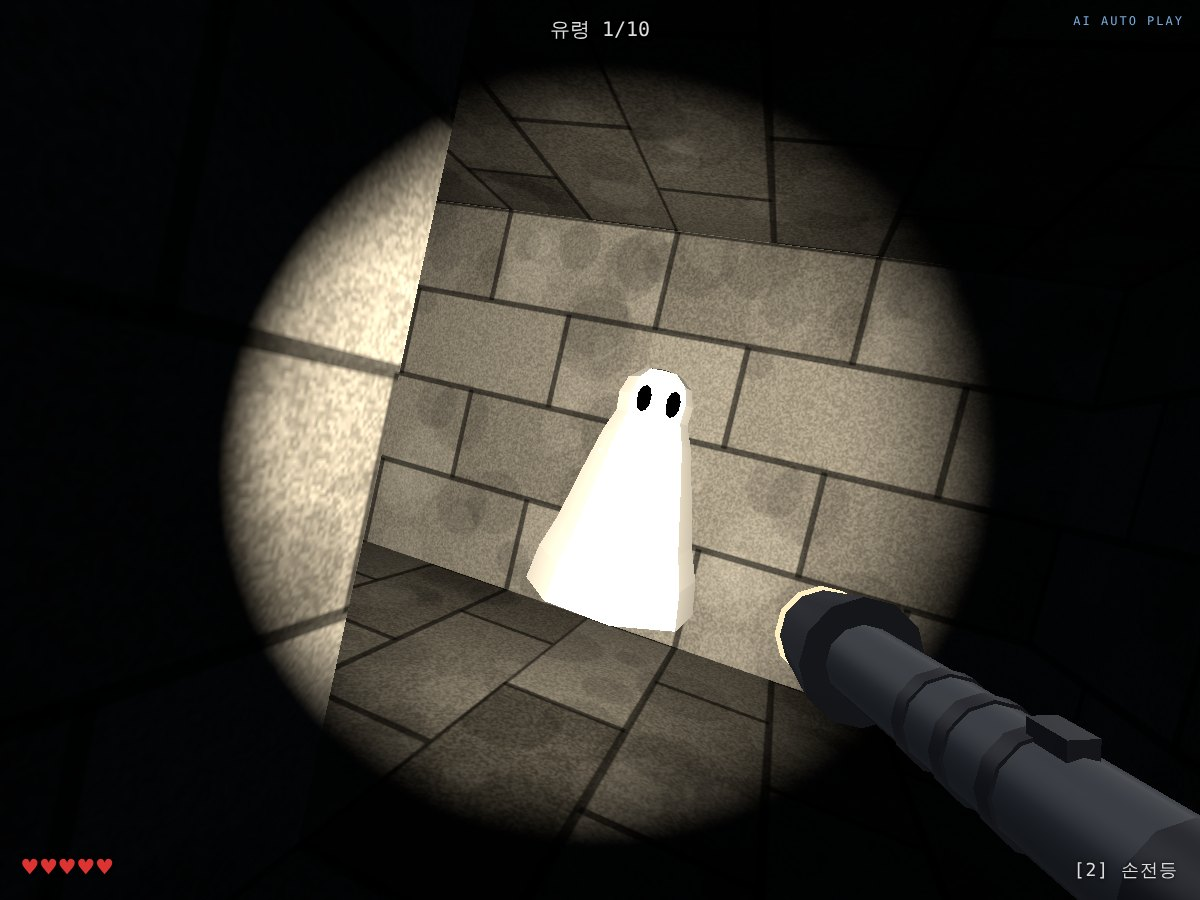
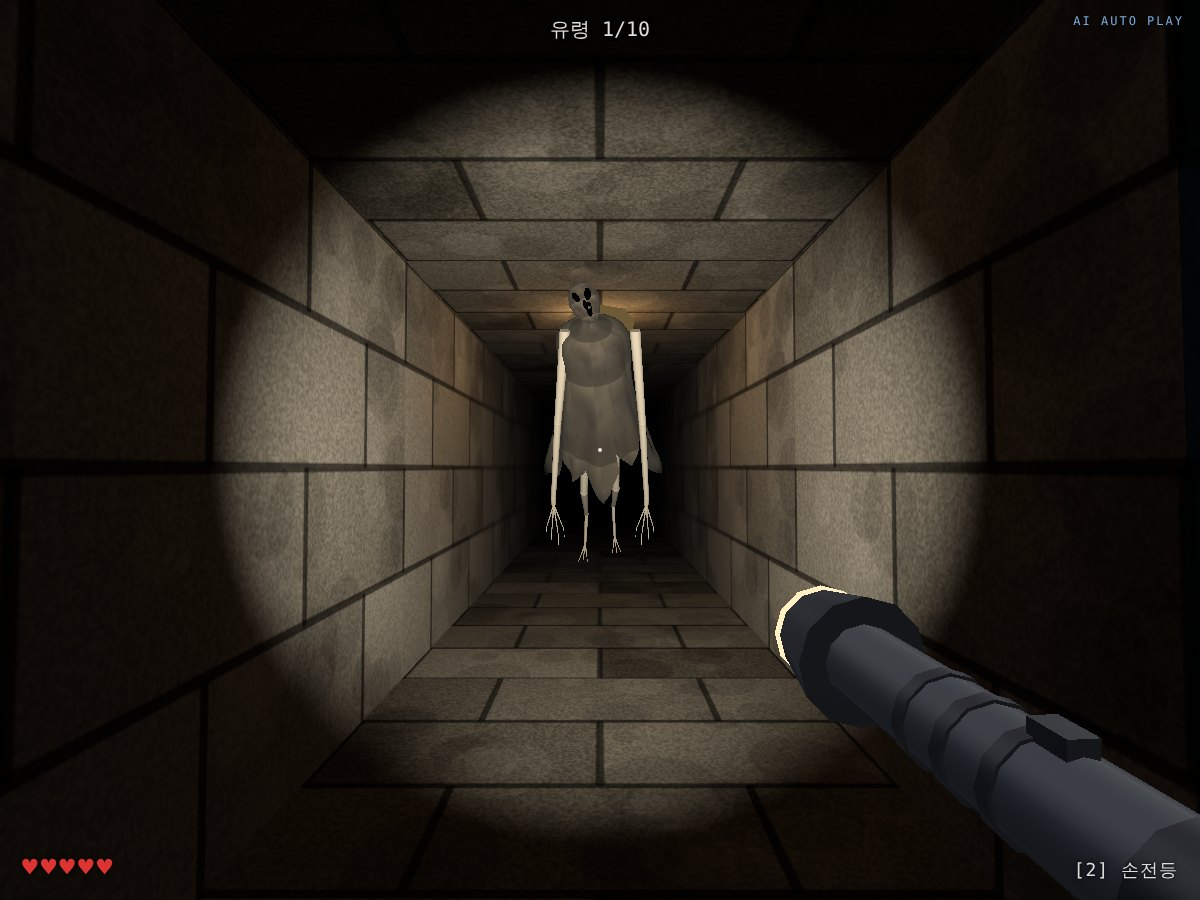
유령 재디자인: 키 크고 앙상한 체형, 굽은 등과 혹, 긴 다리와 도약 달리기, 작은 머리·텅 빈 눈·찢긴 입, 긴 팔, 때 묻은 찢긴 천. 판정 몸통 3발·머리 2발
Claude-Session: https://claude.ai/code/session_01BNALm6jadQDQcYbVgMXER4

Changed region(s): [[0.1542, 0.0933, 0.8325, 0.9333], [0.37, 0.8711, 0.4008, 0.9022]]

diff --git a/shoot-to-survive/js/ghost.js b/shoot-to-survive/js/ghost.js
@@ -1,102 +1,193 @@
 import * as THREE from 'three';
-import { toCreasedNormals } from 'three/addons/utils/BufferGeometryUtils.js';
+import { toCreasedNormals, mergeGeometries } from 'three/addons/utils/BufferGeometryUtils.js';
 import { hasLOS, pushOut, tileOf, centerOf, openNeighbors, findPath } from './maze.js';
 
-export const GHOST_H = 1.8;          // 모델 높이
-export const GHOST_FLOAT = 0.25;     // 바닥에서 띄운 높이
-export const HEAD_FROM = GHOST_H * 0.75; // 상단 25% = 머리
+export const GHOST_H = 2.6;          // 모델 높이 (등을 굽힌 상태, 펴면 훨씬 큼)
+export const GHOST_FLOAT = 0;        // 이제 다리로 선다 (도약 때만 떠오름)
+export const HEAD_FROM = 2.3;        // 머리 판정은 머리 메시로 한다
+export const BODY_DMG = 34, HEAD_DMG = 50; // 몸통 3발, 머리 2발에 사망 (체력 100)
 const RADIUS = 0.35;
+const V3 = THREE.Vector3;
 
 // 고화질 유령의 밑단 천 일렁임 시간(초) — main에서 매 프레임 갱신
 export const ghostTime = { value: 0 };
 
-// ── 낮음: 기존 로우폴리 유령 ──
-function buildLow() {
-  const pts = [[0, 1.8], [0.13, 1.78], [0.23, 1.7], [0.27, 1.58], [0.26, 1.45], [0.32, 1.3], [0.4, 1.0], [0.5, 0.6], [0.58, 0.25], [0.62, 0.0]]
-    .map(([r, y]) => new THREE.Vector2(r, y));
-  const geo = new THREE.LatheGeometry(pts, 8);
-  const pos = geo.attributes.position; // 옷자락 물결
-  for (let i = 0; i < pos.count; i++) {
-    const y = pos.getY(i);
-    if (y < 0.3) {
-      const a = Math.atan2(pos.getZ(i), pos.getX(i));
-      pos.setY(i, y + Math.sin(a * 4) * 0.12 + 0.12);
+// ── 공통 부품 ────────────────────────────────────────────
+function limb(parts, a, b, ra, rb, seg) { // a→b 로 가늘어지는 원기둥
+  const d = new V3().subVectors(b, a), len = d.length();
+  const g = new THREE.CylinderGeometry(rb, ra, len, seg, 1, false);
+  g.applyQuaternion(new THREE.Quaternion().setFromUnitVectors(new V3(0, 1, 0), d.normalize()));
+  g.translate((a.x + b.x) / 2, (a.y + b.y) / 2, (a.z + b.z) / 2);
+  parts.push(g);
+}
+function joint(parts, p, r, seg) { const g = new THREE.SphereGeometry(r, seg, Math.max(3, seg - 2)); g.translate(p.x, p.y, p.z); parts.push(g); }
+
+// 천 밖으로 늘어진 창백하고 가늘고 긴 팔 + 길게 휜 손가락 (양팔을 하나로 합침)
+function buildArms(seg, fine) {
+  const parts = [];
+  for (const s of [-1, 1]) {
+    const sh = new V3(s * 0.26, 0, 0), el = new V3(s * 0.34, -0.75, 0.12), wr = new V3(s * 0.40, -1.45, 0.22); // 어깨(0,0,0) 기준, 지나치게 긴 팔
+    limb(parts, sh, el, 0.042, 0.03, seg); limb(parts, el, wr, 0.03, 0.022, seg);
+    joint(parts, el, 0.032, seg); joint(parts, wr, 0.024, seg);
+    const palm = new V3(wr.x, wr.y - 0.07, wr.z + 0.01); limb(parts, wr, palm, 0.024, 0.02, seg);
+    for (const [dx, dz, len] of [[-0.3, 0.1, 0.27], [-0.1, 0.2, 0.32], [0.1, 0.2, 0.3], [0.3, 0.1, 0.24]]) {
+      const dir = new V3(dx * s, -1, dz).normalize(), p1 = new V3().copy(palm).addScaledVector(dir, len);
+      limb(parts, palm, p1, 0.0085, 0.0045, fine ? 6 : 4);
+      if (fine) limb(parts, p1, new V3(p1.x + dx * s * 0.03, p1.y - 0.05, p1.z + 0.06), 0.0045, 0.0018, 5); // 끝이 안쪽으로 휜 손톱 쪽
     }
   }
+  return mergeGeometries(parts);
+}
+
+// 지나치게 긴 다리: 허벅지 → 앞으로 꺾인 무릎 → 뒤로 빠진 발목 → 길게 뻗은 발가락 (엉덩이가 원점, 서 있으면 발끝이 y=-1.5)
+function buildLeg(s, seg, fine) {
+  const parts = [], hip = new V3(0, 0, 0), knee = new V3(s * 0.03, -0.74, 0.14), ank = new V3(s * 0.02, -1.38, -0.07), toe = new V3(s * 0.03, -1.47, 0.24);
+  limb(parts, hip, knee, 0.05, 0.034, seg); limb(parts, knee, ank, 0.034, 0.021, seg);
+  joint(parts, knee, 0.037, seg); joint(parts, ank, 0.024, seg);
+  limb(parts, ank, toe, 0.02, 0.012, seg);
+  for (const dx of [-0.045, 0, 0.045]) limb(parts, toe, new V3(toe.x + dx + s * 0.02, -1.5, 0.42), 0.011, 0.003, fine ? 5 : 4);
+  return mergeGeometries(parts);
+}
+
+// 작은 머리 위에 얹는 얼굴: 크고 텅 빈 눈구멍(바깥쪽이 처짐), 세로로 길게 벌어진 비대칭 입, 눈 속의 희미한 푸른 점
+const HEAD = { rx: 0.11, ry: 0.15, rz: 0.12 };
+function buildFace(segs) {
+  const surf = (x, y) => HEAD.rz * Math.sqrt(Math.max(0.05, 1 - (x / HEAD.rx) ** 2 - (y / HEAD.ry) ** 2));
+  const place = (g, x, y, tilt = 0, sc = [1, 1]) => { // 얼굴 곡면에 붙이기
+    const z = surf(x, y), n = new V3(x / HEAD.rx ** 2, y / HEAD.ry ** 2, z / HEAD.rz ** 2).normalize();
+    g.scale(sc[0], sc[1], 1); g.rotateZ(tilt);
+    g.applyQuaternion(new THREE.Quaternion().setFromUnitVectors(new V3(0, 0, 1), n)); g.translate(x, y, z + 0.0025); return g;
+  };
+  const ell = (rx, ry, n) => new THREE.ShapeGeometry(new THREE.Shape(Array.from({ length: n }, (_, i) => { const a = i / n * Math.PI * 2; return new THREE.Vector2(Math.cos(a) * rx, Math.sin(a) * ry); })), 1);
+  const eyes = [], glow = [];
+  for (const s of [-1, 1]) {
+    const x = s * 0.043, y = 0.03 - (s > 0 ? 0.008 : 0), k = s > 0 ? 1.12 : 1.0; // 오른쪽 눈이 조금 더 크고 낮음 (비대칭)
+    eyes.push(place(ell(0.022, 0.042, segs), x, y, s * -0.38, [k, k]));
+    const dot = new THREE.CircleGeometry(0.0055, 8); glow.push(place(dot, x, y - 0.014 * k, 0));
+  }
+  // 입: 반지름이 들쭉날쭉한 긴 타원 (한쪽으로 쳐짐)
+  const m = []; const N = segs + 4;
+  for (let i = 0; i < N; i++) { const a = i / N * Math.PI * 2, j = 1 + 0.16 * Math.sin(3 * a + 1) + 0.1 * Math.sin(5 * a + 0.4); m.push(new THREE.Vector2(Math.cos(a) * 0.024 * j + 0.004, Math.sin(a) * 0.062 * j)); }
+  const mouth = place(new THREE.ShapeGeometry(new THREE.Shape(m), 1), 0.006, -0.068, 0.08);
+  return { face: mergeGeometries([...eyes, mouth]), glow: mergeGeometries(glow) };
+}
+
+// ── 낮음: 로우폴리 유령 ──
+function buildLow() {
+  const SK = ([r, y]) => new THREE.Vector2(r * 0.8, y * 0.9 - 0.55); // 앙상하게 가늘고 짧게 (엉덩이 기준 좌표: 목 위 1.16, 밑단 -0.55)
+  const pts = [[0.055, 1.88], [0.06, 1.8], [0.14, 1.7], [0.27, 1.62], [0.3, 1.5], [0.31, 1.3], [0.36, 1.0], [0.44, 0.6], [0.52, 0.25], [0.58, 0.0]].map(SK);
+  const geo = new THREE.LatheGeometry(pts, 10), pos = geo.attributes.position, np = pts.length;
+  for (let i = 0; i < pos.count; i++) { // 찢긴 밑단: 톱니처럼 들쭉날쭉
+    const j = i % np, seg = Math.floor(i / np), y = pos.getY(i);
+    if (j === np - 1) pos.setY(i, y + (seg % 2 ? 0.3 : 0.03) + (seg % 3 === 0 ? 0.1 : 0));
+    else if (j === np - 2) pos.setY(i, y + (seg % 2 ? 0.1 : 0));
+  }
+  for (let i = 0; i < pos.count; i++) { // 등의 혹: 어깨 뒤쪽을 크게 부풀림
+    const x = pos.getX(i), y = pos.getY(i), z = pos.getZ(i);
+    if (z < 0) pos.setZ(i, z * (1 + 0.75 * Math.exp(-(((y - 0.7) / 0.3) ** 2))));
+  }
   geo.computeVertexNormals();
-  const mat = new THREE.MeshLambertMaterial({ color: 0xeeeeee, emissive: 0x161616, flatShading: true, side: THREE.DoubleSide });
-  return { geo, mat, eyeGeo: new THREE.SphereGeometry(0.06, 6, 5), eyeMat: new THREE.MeshBasicMaterial({ color: 0x000000 }), eyeScale: [0.8, 1.5, 0.5], eyeZ: 0.245 };
+  const cloth = new THREE.MeshLambertMaterial({ color: 0x7a766f, emissive: 0x0b0b0c, flatShading: true, side: THREE.DoubleSide });
+  const head = new THREE.SphereGeometry(1, 8, 6); head.scale(HEAD.rx, HEAD.ry, HEAD.rz);
+  const f = buildFace(6);
+  return {
+    body: { geo, mat: cloth }, head: { geo: head, mat: cloth },
+    arms: { geo: buildArms(4, false), mat: new THREE.MeshLambertMaterial({ color: 0x8d8a84, flatShading: true }) },
+    legs: { L: buildLeg(-1, 5, false), R: buildLeg(1, 5, false), mat: new THREE.MeshLambertMaterial({ color: 0x8d8a84, flatShading: true }) },
+    face: { geo: f.face, mat: new THREE.MeshBasicMaterial({ color: 0x000000 }) }, glow: { geo: f.glow, mat: new THREE.MeshBasicMaterial({ color: 0x9cc0ff }) },
+  };
 }
 
 // ── 높음: 하이폴리 천 유령 ──
 const sstep = (a, b, x) => { const t = Math.min(1, Math.max(0, (x - a) / (b - a))); return t * t * (3 - 2 * t); };
-function fabricMaps() { // 낡고 흐린 리넨: 옅은 얼룩 + 약한 직조 무늬 (색 맵 + 범프 맵)
+function fabricMaps() { // 낡고 더러운 리넨: 때 · 얼룩 · 번진 자국 + 약한 직조 무늬 (색 맵 + 범프 맵)
   const mk = (draw) => { const c = document.createElement('canvas'); c.width = c.height = 512; draw(c.getContext('2d')); return c; };
   const rnd = (() => { let s = 11; return () => (s = (s * 16807) % 2147483647) / 2147483647; })();
   const weave = (x, a) => { x.globalAlpha = a; for (let i = 0; i < 512; i += 2) { x.fillStyle = (i & 2) ? '#fff' : '#6e6a62'; x.fillRect(0, i, 512, 1); x.fillRect(i, 0, 1, 512); } x.globalAlpha = 1; };
   const color = mk((x) => {
-    x.fillStyle = '#d4d0c8'; x.fillRect(0, 0, 512, 512);
-    for (let i = 0; i < 22; i++) { // 얼룩·바랜 자국
-      const px = rnd() * 512, py = rnd() * 512, r = 40 + rnd() * 110, g = x.createRadialGradient(px, py, 0, px, py, r);
-      const dark = rnd() < 0.7; g.addColorStop(0, dark ? 'rgba(96,86,70,0.10)' : 'rgba(255,255,255,0.12)'); g.addColorStop(1, 'rgba(0,0,0,0)');
+    x.fillStyle = '#cfc9bd'; x.fillRect(0, 0, 512, 512);
+    for (let i = 0; i < 30; i++) { // 때 · 얼룩
+      const px = rnd() * 512, py = rnd() * 512, r = 30 + rnd() * 120, g = x.createRadialGradient(px, py, 0, px, py, r), k = rnd();
+      g.addColorStop(0, k < 0.55 ? 'rgba(70,62,48,0.22)' : k < 0.8 ? 'rgba(88,34,26,0.20)' : 'rgba(255,255,255,0.10)'); g.addColorStop(1, 'rgba(0,0,0,0)');
       x.fillStyle = g; x.fillRect(0, 0, 512, 512);
     }
+    for (let i = 0; i < 16; i++) { // 흘러내린 검붉은 자국
+      const px = rnd() * 512, py = rnd() * 400, w = 3 + rnd() * 9, len = 40 + rnd() * 160, g = x.createLinearGradient(0, py, 0, py + len);
+      g.addColorStop(0, 'rgba(70,24,18,0.38)'); g.addColorStop(1, 'rgba(70,24,18,0)'); x.fillStyle = g; x.fillRect(px, py, w, len);
+    }
+    const dg = x.createLinearGradient(0, 0, 0, 512); dg.addColorStop(0, 'rgba(0,0,0,0)'); dg.addColorStop(1, 'rgba(30,24,16,0.42)'); x.fillStyle = dg; x.fillRect(0, 0, 512, 512); // 아래로 갈수록 더럽게
     weave(x, 0.10);
-    const img = x.getImageData(0, 0, 512, 512); for (let i = 0; i < img.data.length; i += 4) { const n = (rnd() - 0.5) * 12; img.data[i] += n; img.data[i + 1] += n; img.data[i + 2] += n; }
+    const img = x.getImageData(0, 0, 512, 512); for (let i = 0; i < img.data.length; i += 4) { const n = (rnd() - 0.5) * 14; img.data[i] += n; img.data[i + 1] += n; img.data[i + 2] += n; }
     x.putImageData(img, 0, 0);
   });
-  const soft = mk((x) => { x.filter = 'blur(0.7px)'; x.drawImage(color, 0, 0); }); // 살짝 흐리게
+  const soft = mk((x) => { x.filter = 'blur(0.7px)'; x.drawImage(color, 0, 0); });
   const bump = mk((x) => { x.fillStyle = '#8a8a8a'; x.fillRect(0, 0, 512, 512); weave(x, 0.55); });
   const T = (c, srgb) => { const t = new THREE.CanvasTexture(c); t.wrapS = t.wrapT = THREE.RepeatWrapping; t.repeat.set(5, 4); t.anisotropy = 4; if (srgb) t.colorSpace = THREE.SRGBColorSpace; return t; };
   return { map: T(soft, true), bump: T(bump, false) };
 }
 
 function buildHigh() {
-  // 1) 매끈한 실루엣 (스플라인) → 72분할 선삭
-  const prof = new THREE.SplineCurve([[0, 1.8], [0.08, 1.795], [0.17, 1.76], [0.235, 1.69], [0.27, 1.59], [0.268, 1.5], [0.275, 1.4], [0.31, 1.28], [0.37, 1.1], [0.43, 0.9], [0.5, 0.62], [0.57, 0.32], [0.62, 0.05], [0.63, 0.0]]
-    .map(([r, y]) => new THREE.Vector2(r, y))).getPoints(80).reverse(); // 아래→위
+  // 1) 좁은 어깨, 가늘고 긴 목, 아래로 퍼지는 천 (스플라인) → 72분할 선삭
+  const prof = new THREE.SplineCurve([[0.055, 1.9], [0.058, 1.82], [0.085, 1.74], [0.17, 1.68], [0.265, 1.62], [0.3, 1.52], [0.3, 1.38], [0.32, 1.2], [0.37, 0.98], [0.43, 0.74], [0.5, 0.48], [0.57, 0.22], [0.61, 0.03], [0.62, 0.0]]
+    .map(([r, y]) => new THREE.Vector2(r * 0.8, y * 0.9 - 0.55))).getPoints(84).reverse(); // 앙상하게 가늘고 짧게 (엉덩이 기준)
   let geo = new THREE.LatheGeometry(prof, 72);
-  // 2) 천 주름 · 어깨 볼륨 · 물결 밑단 + 정점 색(골짜기 음영)
   const pos = geo.attributes.position, col = new Float32Array(pos.count * 3);
   for (let i = 0; i < pos.count; i++) {
     const x = pos.getX(i), y = pos.getY(i), z = pos.getZ(i), r = Math.hypot(x, z), th = Math.atan2(x, z);
-    const amp = sstep(1.5, 0.12, y);                                           // 아래로 갈수록 주름이 깊다
-    const fold = 0.055 * Math.sin(7 * th + 0.8 + y * 1.6) + 0.032 * Math.sin(13 * th + 2.1 - y * 2.2) + 0.026 * Math.sin(3 * th + 0.4);
-    const sleeve = 0.075 * Math.exp(-(((y - 1.12) / 0.2) ** 2)) * Math.sin(th) ** 2; // 팔이 받치는 어깨 볼륨
-    const rr = r * (1 + amp * fold + sleeve);
-    const hemW = sstep(0.34, 0.0, y), lift = hemW * (0.1 + 0.07 * Math.sin(5 * th + 1) + 0.045 * Math.sin(9 * th + 0.3 * Math.cos(th))); // 물결 밑단
+    const yy = y + 0.55, amp = sstep(1.4, 0.1, yy); // 밑단 기준 높이 / 아래로 갈수록 주름이 깊다
+    const fold = 0.06 * Math.sin(7 * th + 0.8 + y * 1.6) + 0.035 * Math.sin(13 * th + 2.1 - y * 2.2) + 0.028 * Math.sin(3 * th + 0.4);
+    const hump = 0.8 * Math.exp(-(((y - 0.7) / 0.3) ** 2)) * Math.max(0, -Math.cos(th)); // 등의 혹
+    const rr = r * (1 + amp * fold + hump);
+    const hemW = sstep(0.34, 0.0, yy), lift = hemW * (0.1 + 0.07 * Math.sin(5 * th + 1) + 0.045 * Math.sin(9 * th + 0.3 * Math.cos(th)));
     pos.setXYZ(i, rr * Math.sin(th), y + lift, rr * Math.cos(th));
-    let c = 1 - 0.3 * Math.min(1, Math.max(0, -fold * amp / 0.07)) * 1.0;      // 주름 골짜기는 어둡게
-    c *= 0.9 + 0.1 * sstep(0.0, 0.6, y);
-    for (const ex of [-0.1, 0.1]) { const dx = rr * Math.sin(th) - ex, dy = y - 1.56; if (z > 0) c *= 1 - 0.6 * Math.exp(-(dx * dx + dy * dy * 0.45) / 0.0042); } // 눈구멍 주변 그늘
+    let c = 1 - 0.34 * Math.min(1, Math.max(0, -fold * amp / 0.07)); // 주름 골짜기는 어둡게
+    c *= 0.72 + 0.28 * sstep(0.0, 0.8, yy); // 아래쪽은 때가 탐
     col[i * 3] = col[i * 3 + 1] = col[i * 3 + 2] = c;
   }
   geo.setAttribute('color', new THREE.BufferAttribute(col, 3));
-  geo = toCreasedNormals(geo, Math.PI); // 위치가 같은 정점끼리 부드럽게 (이음매 포함)
-  // 3) 천 재질 + 밑단 일렁임(정점 셰이더) + 밑단 투명
+  geo = toCreasedNormals(geo, Math.PI);
+  // 2) 재질: 천(밑단 일렁임 + 찢긴 조각) / 머리·팔은 일렁이지 않는 재질
   const { map, bump } = fabricMaps();
-  const mat = new THREE.MeshStandardMaterial({ color: 0x7f7c77, map, bumpMap: bump, bumpScale: 0.7, roughness: 0.96, metalness: 0, vertexColors: true, side: THREE.DoubleSide, transparent: true, emissive: 0x121215 });
+  const P = { color: 0x57544f, map, bumpMap: bump, bumpScale: 0.8, roughness: 0.97, metalness: 0, side: THREE.DoubleSide, emissive: 0x121215 };
+  const mat = new THREE.MeshStandardMaterial({ ...P, vertexColors: true, transparent: true });
   mat.onBeforeCompile = (sh) => {
     sh.uniforms.uTime = ghostTime;
     sh.vertexShader = sh.vertexShader
-      .replace('#include <common>', '#include <common>\nuniform float uTime;\nvarying float vY;')
+      .replace('#include <common>', '#include <common>\nuniform float uTime;\nvarying float vY;\nvarying float vA;')
       .replace('#include <begin_vertex>', `
         vec3 transformed = vec3(position);
-        float ph = modelMatrix[3].x * 1.7 + modelMatrix[3].z * 2.3;       // 유령마다 다른 위상
-        float hem = smoothstep(0.8, 0.0, position.y);                      // 아래쪽일수록 크게 흔들림
+        float ph = modelMatrix[3].x * 1.7 + modelMatrix[3].z * 2.3;
+        float yy = position.y + 0.55;
+        float hem = smoothstep(0.8, 0.0, yy);
         float ang = atan(position.x, position.z);
         vec2 rad = normalize(position.xz + vec2(1e-5));
         float wave = sin(uTime * 1.7 + ang * 4.0 + ph) * 0.05 + sin(uTime * 2.9 - ang * 7.0 + ph * 1.3) * 0.028 + sin(uTime * 1.1 + ang * 2.0 - ph) * 0.022;
         transformed.xz += rad * wave * hem;
         transformed.y += sin(uTime * 2.3 + ang * 5.0 + ph) * 0.04 * hem * hem;
-        transformed.x += sin(uTime * 0.8 + ph) * 0.014 * smoothstep(0.0, 1.8, position.y); // 몸 전체의 느린 흔들림
-        vY = position.y;`);
+        transformed.x += sin(uTime * 0.8 + ph) * 0.014 * smoothstep(0.0, 1.7, yy);
+        vY = yy; vA = ang;`);
     sh.fragmentShader = sh.fragmentShader
-      .replace('#include <common>', '#include <common>\nvarying float vY;')
-      .replace('#include <color_fragment>', '#include <color_fragment>\n        diffuseColor.a *= smoothstep(0.03, 0.42, vY);'); // 밑단은 흐려지며 사라짐
+      .replace('#include <common>', '#include <common>\nvarying float vY;\nvarying float vA;')
+      .replace('#include <color_fragment>', `#include <color_fragment>
+        float a9 = (vA + 3.14159) / 6.28318 * 9.0, st = floor(a9);
+        float cutH = 0.5 * pow(fract(sin(st * 12.9898) * 43758.5453), 1.6);       // 조각마다 다른 길이
+        if (vY < cutH + abs(fract(a9) - 0.5) * 0.42) discard;                      // 찢겨 늘어진 천 조각 (끝이 뾰족)
+        diffuseColor.a *= smoothstep(0.0, 0.25, vY);`);
   };
-  mat.customProgramCacheKey = () => 'ghost-high';
-  return { geo, mat, eyeGeo: new THREE.SphereGeometry(0.06, 24, 16), eyeMat: new THREE.MeshBasicMaterial({ color: 0x000000 }), eyeScale: [0.76, 1.7, 0.45], eyeZ: 0.241 };
+  mat.customProgramCacheKey = () => 'ghost-high2';
+  const plain = new THREE.MeshStandardMaterial(P);
+  // 3) 작고 긴 달걀형 머리 (천이 덮인 느낌의 잔주름)
+  let head = new THREE.SphereGeometry(1, 40, 28), hp = head.attributes.position;
+  for (let i = 0; i < hp.count; i++) { const x = hp.getX(i), y = hp.getY(i), z = hp.getZ(i), k = 1 + 0.025 * Math.sin(9 * Math.atan2(x, z) + y * 4) + 0.02 * Math.sin(5 * y * 3 + 1);
+    hp.setXYZ(i, x * HEAD.rx * k * (1 - 0.12 * Math.max(0, -y)), y * HEAD.ry * (y < 0 ? 1.12 : 1), z * HEAD.rz * k); }
+  head = toCreasedNormals(head, Math.PI);
+  const f = buildFace(26);
+  return {
+    body: { geo, mat }, head: { geo: head, mat: plain },
+    arms: { geo: buildArms(10, true), mat: new THREE.MeshStandardMaterial({ color: 0x938f88, roughness: 0.85, metalness: 0, emissive: 0x0c0c0e }) },
+    legs: { L: buildLeg(-1, 10, true), R: buildLeg(1, 10, true), mat: new THREE.MeshStandardMaterial({ color: 0x938f88, roughness: 0.85, metalness: 0, emissive: 0x0c0c0e }) },
+    face: { geo: f.face, mat: new THREE.MeshBasicMaterial({ color: 0x000000 }) }, glow: { geo: f.glow, mat: new THREE.MeshBasicMaterial({ color: 0x9cc0ff }) },
+  };
 }
 
 // 품질별 에셋 (높음은 처음 쓸 때 한 번만 생성)
@@ -105,19 +196,23 @@ export function createGhostAssets() {
   return { get(q) { return cache[q] || (cache[q] = q === 'high' ? buildHigh() : buildLow()); } };
 }
 
+const clamp01 = (v) => Math.min(1, Math.max(0, v));
 export class Ghost {
   constructor(assets, tx, tz, quality = 'low') {
     this.q = quality;
     const a = assets.get(quality);
-    this.mesh = new THREE.Mesh(a.geo, a.mat);
-    this.eyes = [];
-    for (const sx of [-1, 1]) {
-      const eye = new THREE.Mesh(a.eyeGeo, a.eyeMat);
-      eye.scale.set(...a.eyeScale);
-      eye.position.set(sx * 0.1, 1.56, a.eyeZ);
-      this.mesh.add(eye); this.eyes.push(eye);
-    }
-    this.mesh.userData.ghost = this;
+    this.mesh = new THREE.Group(); // 루트: 위치·방향
+    this.upper = new THREE.Group(); this.upper.position.set(0, 1.5, 0); this.mesh.add(this.upper); // 상체: 엉덩이를 축으로 앞으로 굽는다
+    this.cloth = new THREE.Mesh(a.body.geo, a.body.mat); this.upper.add(this.cloth);
+    this.headG = new THREE.Group(); this.headG.position.set(0, 1.1, 0.0); this.upper.add(this.headG); // 길게 뺀 목 끝
+    this.headM = new THREE.Mesh(a.head.geo, a.head.mat); this.faceM = new THREE.Mesh(a.face.geo, a.face.mat); this.glowM = new THREE.Mesh(a.glow.geo, a.glow.mat);
+    for (const m of [this.headM, this.faceM, this.glowM]) { m.position.y = 0.09; this.headG.add(m); m.userData.head = true; }
+    this.armsG = new THREE.Group(); this.mesh.add(this.armsG);           // 어깨에서 늘어지는 팔
+    this.armsM = new THREE.Mesh(a.arms.geo, a.arms.mat); this.armsG.add(this.armsM);
+    this.legL = new THREE.Mesh(a.legs.L, a.legs.mat); this.legR = new THREE.Mesh(a.legs.R, a.legs.mat); // 엉덩이에서 흔들리는 긴 다리
+    this.legL.position.set(-0.12, 1.5, 0); this.legR.position.set(0.12, 1.5, 0); this.mesh.add(this.legL, this.legR);
+    this.mesh.traverse((m) => { m.userData.ghost = this; });
+    this.seed = Math.random() * 100;
     this.x = centerOf(tx); this.z = centerOf(tz);
     this.yaw = Math.random() * 6.28;
     this.hp = 100;
@@ -128,6 +223,7 @@ export class Ghost {
     this.path = []; this.pathT = 0;
     this.attackT = -1; this.attackCd = 0;
     this.flash = 0; this.stunT = 0;
+    this.spd = 0; this.ph = Math.random() * 6.28; this.gT = null; this.px = this.x; this.pz = this.z; this.hop = 0;
     this.sync();
   }
 
@@ -135,15 +231,40 @@ export class Ghost {
   setQuality(q, assets) {
     if (q === this.q) return;
     this.q = q; const a = assets.get(q);
-    this.mesh.geometry = a.geo; this.mesh.material = a.mat;
-    for (const e of this.eyes) { e.geometry = a.eyeGeo; e.material = a.eyeMat; e.scale.set(...a.eyeScale); e.position.z = a.eyeZ; }
+    const set = (m, k) => { m.geometry = a[k].geo; m.material = a[k].mat; };
+    set(this.cloth, 'body'); set(this.armsM, 'arms'); set(this.headM, 'head'); set(this.faceM, 'face'); set(this.glowM, 'glow');
+    this.legL.geometry = a.legs.L; this.legR.geometry = a.legs.R; this.legL.material = this.legR.material = a.legs.mat;
   }
 
   sync() {
-    const lunge = this.attackT >= 0 ? Math.sin(Math.min(1, this.attackT / 0.35) * Math.PI) * 0.25 : 0;
-    this.mesh.position.set(this.x + Math.sin(this.yaw) * lunge, GHOST_FLOAT, this.z + Math.cos(this.yaw) * lunge);
+    const now = performance.now() / 1000;
+    if (this.gT === null) this.gT = now;
+    const dt = now - this.gT;
+    if (dt > 0.004) { // 이동 속도를 추정해 보행/도약 모션에 쓴다
+      const sp = Math.hypot(this.x - this.px, this.z - this.pz) / Math.min(dt, 0.1);
+      this.spd += (sp - this.spd) * Math.min(1, dt * 8); this.px = this.x; this.pz = this.z;
+      const run = clamp01((this.spd - 2.2) / 2.2), walk = clamp01(this.spd / 1.2) * (1 - run);
+      this.ph += Math.min(dt, 0.1) * (walk * (this.spd / 1.5) * Math.PI * 2 * 0.6 + run * Math.PI * 2 * 2.2); // 걷기: 느리게 / 달리기: 도약 주기
+      this.gT = now;
+    }
+    const run = clamp01((this.spd - 2.2) / 2.2), walk = clamp01(this.spd / 1.2) * (1 - run), ph = this.ph;
+    const atk = this.attackT >= 0 ? Math.sin(Math.min(1, this.attackT / 0.35) * Math.PI) : 0;
+    // 도약: 두 다리를 크게 벌리며 몸이 공중으로 떠오른다
+    const hop = run * 0.45 * Math.pow(Math.max(0, Math.sin(ph + 0.4)), 0.8) + walk * 0.04 * Math.abs(Math.sin(ph));
+    const lunge = atk * 0.25;
+    this.mesh.position.set(this.x + Math.sin(this.yaw) * lunge, GHOST_FLOAT + hop, this.z + Math.cos(this.yaw) * lunge);
     this.mesh.rotation.y = this.yaw;
     this.mesh.scale.setScalar(1 + this.flash * 0.8);
+    const A = 0.42 * walk + 0.95 * run, off = Math.PI * (1 - run) + 0.5 * run;
+    this.legL.rotation.x = A * Math.sin(ph); this.legR.rotation.x = A * Math.sin(ph + off); // 뻣뻣한 긴 다리
+    const tilt = 0.55 + 0.25 * run + 0.35 * atk + 0.02 * Math.sin(now * 1.3 + this.seed); // 등을 굽힘 (달릴수록·덮칠수록 더 숙임)
+    this.upper.rotation.x = tilt; this.upper.rotation.z = 0.08 * Math.sin(ph) * run;
+    this.armsG.position.set(0, 1.5 + 0.95 * Math.cos(tilt), 0.95 * Math.sin(tilt));
+    this.armsG.rotation.x = 0.5 * run + 0.18 * Math.sin(ph) * run + 0.06 * Math.sin(ph) * walk; // 달릴 때 팔이 뒤로 끌린다
+    // 머리: 길게 뺀 목 끝에서 한쪽으로 기울어진 채 흔들리다가 가끔 뚝 꺾이듯 움찔한다 (뒤틀린 움직임)
+    const t = now + this.seed, k = Math.floor(t / 2.6), p2 = t / 2.6 - k;
+    const h = Math.sin(k * 91.7 + this.seed * 13.1), jerk = p2 < 0.06 ? p2 / 0.06 : Math.max(0, 1 - (p2 - 0.06) / 0.55);
+    const r = this.headG.rotation; r.z = 0.26 + 0.07 * Math.sin(t * 0.9) + h * 0.38 * jerk; r.x = -0.45 - 0.2 * run + h * 0.18 * jerk; r.y = h * 0.45 * jerk;
   }
 
   damage(n) { this.hp -= n; this.flash = 0.15; return this.hp <= 0; }

diff --git a/shoot-to-survive/js/main.js b/shoot-to-survive/js/main.js
@@ -3,7 +3,7 @@ import { hasLOS, generateMaze, mulberry32, openTiles, bfsDist, openNeighbors, ra
 import { World } from './world.js';
 import { Player } from './player.js';
 import { Weapons, timingPlan } from './weapons.js';
-import { Ghost, createGhostAssets, ghostTime, GHOST_FLOAT, HEAD_FROM } from './ghost.js';
+import { Ghost, createGhostAssets, ghostTime, GHOST_FLOAT, BODY_DMG, HEAD_DMG } from './ghost.js';
 import { Bot } from './auto.js';
 import { setupTouch } from './touch.js';
 import { Sound, GhostVoices } from './audio.js';
@@ -95,11 +95,11 @@ function shoot() {
   const d = camera.getWorldDirection(new THREE.Vector3());
   const wallD = rayWorldDist(grid, o, d, 60);
   raycaster.set(o, d); raycaster.far = wallD;
-  const hits = raycaster.intersectObjects(ghosts.map(g => g.mesh), false);
+  const hits = raycaster.intersectObjects(ghosts.map(g => g.mesh), true); // 머리·팔 등 자식 메시까지
   if (!hits.length) return;
   const g = hits[0].object.userData.ghost;
-  const head = hits[0].point.y - GHOST_FLOAT > HEAD_FROM; // 모델 상단 25%
-  if (g.damage(head ? 100 : 50)) killGhost(g);
+  const head = !!hits[0].object.userData.head; // 머리 메시에 맞았는가
+  if (g.damage(head ? HEAD_DMG : BODY_DMG)) killGhost(g); // 몸통 3발 · 머리 2발
 }
 
 function meleeHit() { // 전방 1.8m, 전방 약 60° 안의 유령에게 50 피해 (체력 100 → 두 번 때려야 죽음)

diff --git a/shoot-to-survive/js/auto.js b/shoot-to-survive/js/auto.js
@@ -24,7 +24,7 @@ export class Bot {
       this.idle = 0;
       if (w.current !== 'pistol' && !w.switching) w.equip('pistol');
       const yawGoal = Math.atan2(-(tgt.x - cx), -(tgt.z - cz));
-      const pitchGoal = Math.atan2(GHOST_FLOAT + 1.5 - 1.6, best);
+      const pitchGoal = Math.atan2(GHOST_FLOAT + 1.9 - 1.6, best); // 굽은 상체(가슴) 높이를 겨냥
       p.yaw = turn(p.yaw, yawGoal, 7 * dt);
       p.pitch = turn(p.pitch, pitchGoal, 5 * dt);
       const yErr = Math.abs(angDiff(yawGoal, p.yaw)), pErr = Math.abs(angDiff(pitchGoal, p.pitch));
